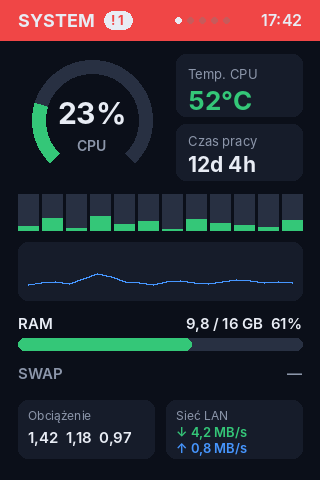
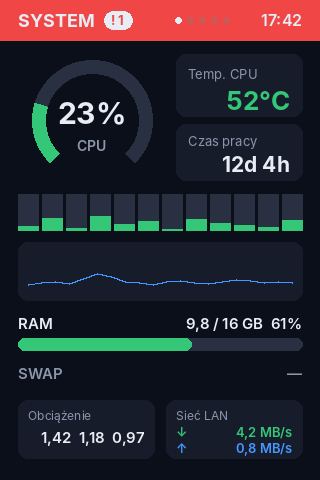
Ekran System: wartości w kafelkach wyrównane do prawej
Uwaga z makiety: temperatura, czas pracy, obciążenie i ruch sieciowy wyrównane
do prawej krawędzi kafelka, etykiety zostają po lewej.

Claude-Session: https://claude.ai/code/session_01KdmNeRTRFZRJ18TRbeokR1

diff --git a/app/ekrany/rysuj.py b/app/ekrany/rysuj.py
@@ -170,10 +170,10 @@ def ekran_system(t, dane):
     x0 = W - M - 126
     karta(d, x0, 54, 126, 62)
     d.text((x0 + 12, 66), t["temp"] + " CPU", font=font(13), fill=KOLORY["szary"])
-    d.text((x0 + 12, 84), f"{temp:.0f}°C" if temp is not None else "—", font=font(26, "Bold"), fill=kt)
+    d.text((W - M - 12, 84), f"{temp:.0f}°C" if temp is not None else "—", font=font(26, "Bold"), fill=kt, anchor="ra")
     karta(d, x0, 124, 126, 56)
     d.text((x0 + 12, 133), t["uptime"], font=font(13), fill=KOLORY["szary"])
-    d.text((x0 + 12, 151), dane["uptime"], font=font(21, "Bold"), fill=KOLORY["tekst"])
+    d.text((W - M - 12, 151), dane["uptime"], font=font(21, "Bold"), fill=KOLORY["tekst"], anchor="ra")
     # rdzenie
     y0, wys = 194, 36
     n = len(dane["rdzenie"]); szer = (W - 2 * M - (n - 1) * 4) / n
@@ -203,11 +203,13 @@ def ekran_system(t, dane):
     y = 400
     karta(d, M, y, szer, 58); karta(d, W - M - szer, y, szer, 58)
     d.text((M + 10, y + 8), t["load"], font=font(12), fill=KOLORY["szary"])
-    d.text((M + 10, y + 28), "  ".join(liczba(v, t["_j"], 2) for v in dane["load"]), font=font(15, "SemiBold"), fill=KOLORY["tekst"])
+    d.text((M + szer - 10, y + 28), "  ".join(liczba(v, t["_j"], 2) for v in dane["load"]), font=font(15, "SemiBold"), fill=KOLORY["tekst"], anchor="ra")
     x = W - M - szer + 10
     d.text((x, y + 8), t["siec"], font=font(12), fill=KOLORY["szary"])
-    d.text((x, y + 24), f"↓ {dane['rx']}", font=font(13, "SemiBold"), fill=KOLORY["ok"])
-    d.text((x, y + 40), f"↑ {dane['tx']}", font=font(13, "SemiBold"), fill=KOLORY["akcent"])
+    # strzałka przy lewej krawędzi, liczba wyrównana do prawej
+    for dy, znak, wartosc, kolor in ((24, "↓", dane["rx"], KOLORY["ok"]), (40, "↑", dane["tx"], KOLORY["akcent"])):
+        d.text((x, y + dy), znak, font=font(13, "SemiBold"), fill=kolor)
+        d.text((W - M - 10, y + dy), wartosc, font=font(13, "SemiBold"), fill=kolor, anchor="ra")
     return img
 
 
